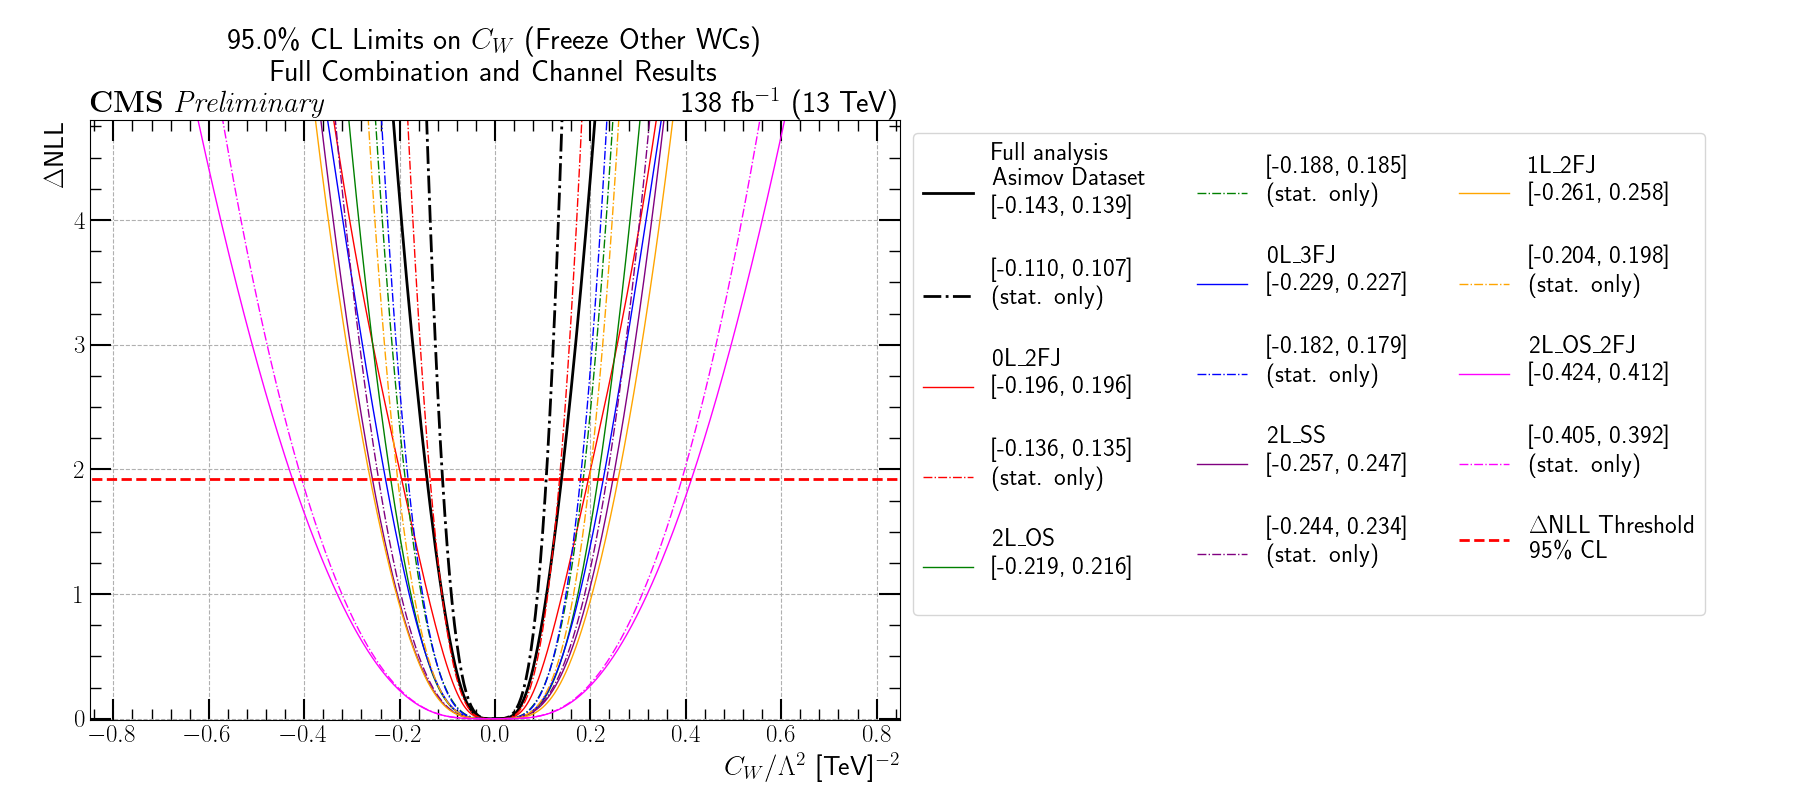
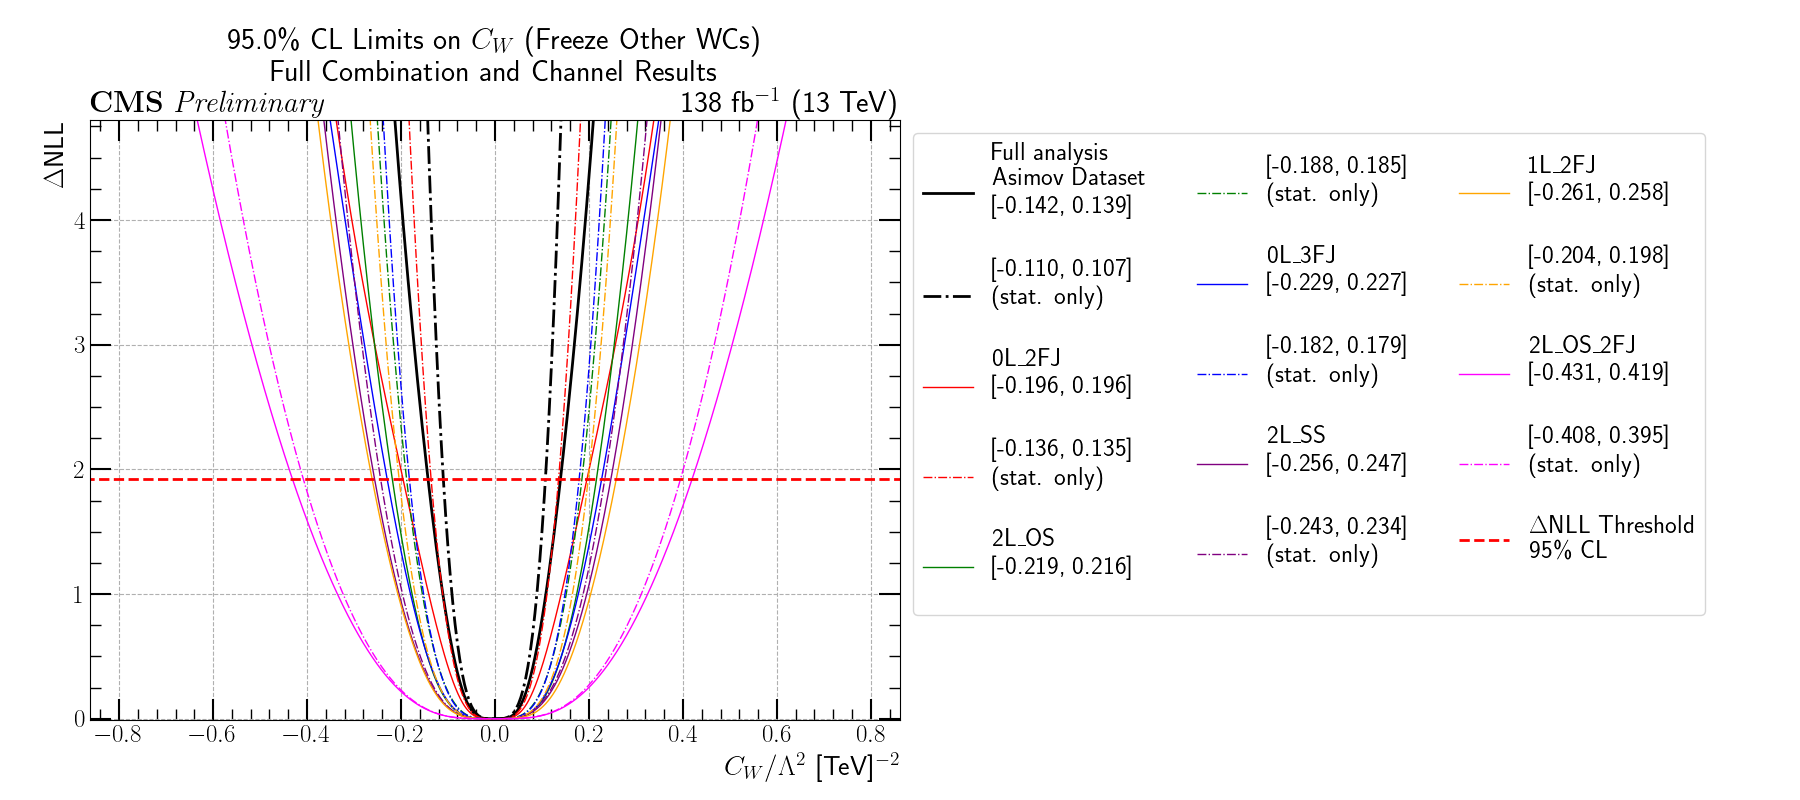
2L_OS version number.

diff --git a/EFTAnalysisFitting/scripts/CONFIG_VERSIONS.py b/EFTAnalysisFitting/scripts/CONFIG_VERSIONS.py
@@ -48,7 +48,8 @@ versions_dict = {
     #'2Lepton_OS': {'v': 16, 'lumi': 'Run2', 'EFT_type': 'points', 'EFT_ops': ['cW', 'cHbox', 'cHDD', 'cHl3', 'cHq1', 'cHq3', 'cHW', 'cHWB', 'cll1', 'cHB', 'cHu', 'cHd']}, # dim6 complete, with all systematics. Double count bug fixed. wtag sf to be updated (include Z)
     #'2Lepton_OS': {'v': 17, 'lumi': 'Run2', 'EFT_type': 'points', 'EFT_ops': ['cW', 'cHbox', 'cHDD', 'cHl3', 'cHq1', 'cHq3', 'cHW', 'cHWB', 'cll1', 'cHB', 'cHu', 'cHd']}, # wtag sf updated
     #'2Lepton_OS': {'v': 18, 'lumi': 'Run2', 'EFT_type': 'points', 'EFT_ops': ['cW', 'cHbox', 'cHDD', 'cHl3', 'cHq1', 'cHq3', 'cHW', 'cHWB', 'cll1', 'cHB', 'cHu', 'cHd']}, # signal sf bug fixed, data-driven predictions now include wtag sf. DY is much larger than before -- working to understand this.
-    '2Lepton_OS': {'v': 19, 'lumi': 'Run2', 'EFT_type': 'points', 'EFT_ops': ['cW', 'cHbox', 'cHDD', 'cHl3', 'cHq1', 'cHq3', 'cHW', 'cHWB', 'cll1', 'cHB', 'cHu', 'cHd']}, # small change in alpha_s
+    #'2Lepton_OS': {'v': 19, 'lumi': 'Run2', 'EFT_type': 'points', 'EFT_ops': ['cW', 'cHbox', 'cHDD', 'cHl3', 'cHq1', 'cHq3', 'cHW', 'cHWB', 'cll1', 'cHB', 'cHu', 'cHd']}, # small change in alpha_s
+    '2Lepton_OS': {'v': 20, 'lumi': 'Run2', 'EFT_type': 'points', 'EFT_ops': ['cW', 'cHbox', 'cHDD', 'cHl3', 'cHq1', 'cHq3', 'cHW', 'cHWB', 'cll1', 'cHB', 'cHu', 'cHd']}, # includes pT dependent SFs; bkg uncertainties no longer flat
     #'2Lepton_OS_2FJ': {'v': 2, 'lumi': 'Run2', 'EFT_type': 'points', 'EFT_ops': ['cW', 'cHbox', 'cHDD', 'cHl3', 'cHq1', 'cHq3', 'cHW', 'cHWB', 'cll1', 'cHB', 'cHu', 'cHd']}, # dim6 complete / first official pass, with all systematics.
     #'2Lepton_OS_2FJ': {'v': 3, 'lumi': 'Run2', 'EFT_type': 'points', 'EFT_ops': ['cW', 'cHbox', 'cHDD', 'cHl3', 'cHq1', 'cHq3', 'cHW', 'cHWB', 'cll1', 'cHB', 'cHu', 'cHd']}, # dim6 complete. everything in place except wtag sf
     #'2Lepton_OS_2FJ': {'v': 5, 'lumi': 'Run2', 'EFT_type': 'points', 'EFT_ops': ['cW', 'cHbox', 'cHDD', 'cHl3', 'cHq1', 'cHq3', 'cHW', 'cHWB', 'cll1', 'cHB', 'cHu', 'cHd']}, # wtag sf added. switched from 2018 scaled to Run2 lumi to using all 3 years.

diff --git a/EFTAnalysisFitting/scripts/1D_scan/summary_NLL_limits_plot.py b/EFTAnalysisFitting/scripts/1D_scan/summary_NLL_limits_plot.py
@@ -252,14 +252,14 @@ def run_NLL_plot_analysis_channel(WC, datacard_dict, CL, plot_stat_only, SignalI
 
 if __name__=='__main__':
     # FIX ME! make these command line args
-    #WCs = ['cW'] # testing
+    WCs = ['cW'] # testing
     #WCs = ['cW', 'sm'] # testing
     #WCs = ['cW', 'cHB'] # testing
     #WCs = ['cW', 'cHbox']
     #WCs = ['cW', 'cHbox', 'cHDD', 'cHl3']
     #WCs = ['cW', 'cHbox', 'cHDD', 'cHl3', 'cHq1']
     # WCs = ['cW', 'cHbox', 'cHDD']
-    WCs = WC_ALL
+    #WCs = WC_ALL
     ###WCs = ['sm'] # sm debug
     # all, with sm
     ##WCs = WC_ALL + ['sm']
